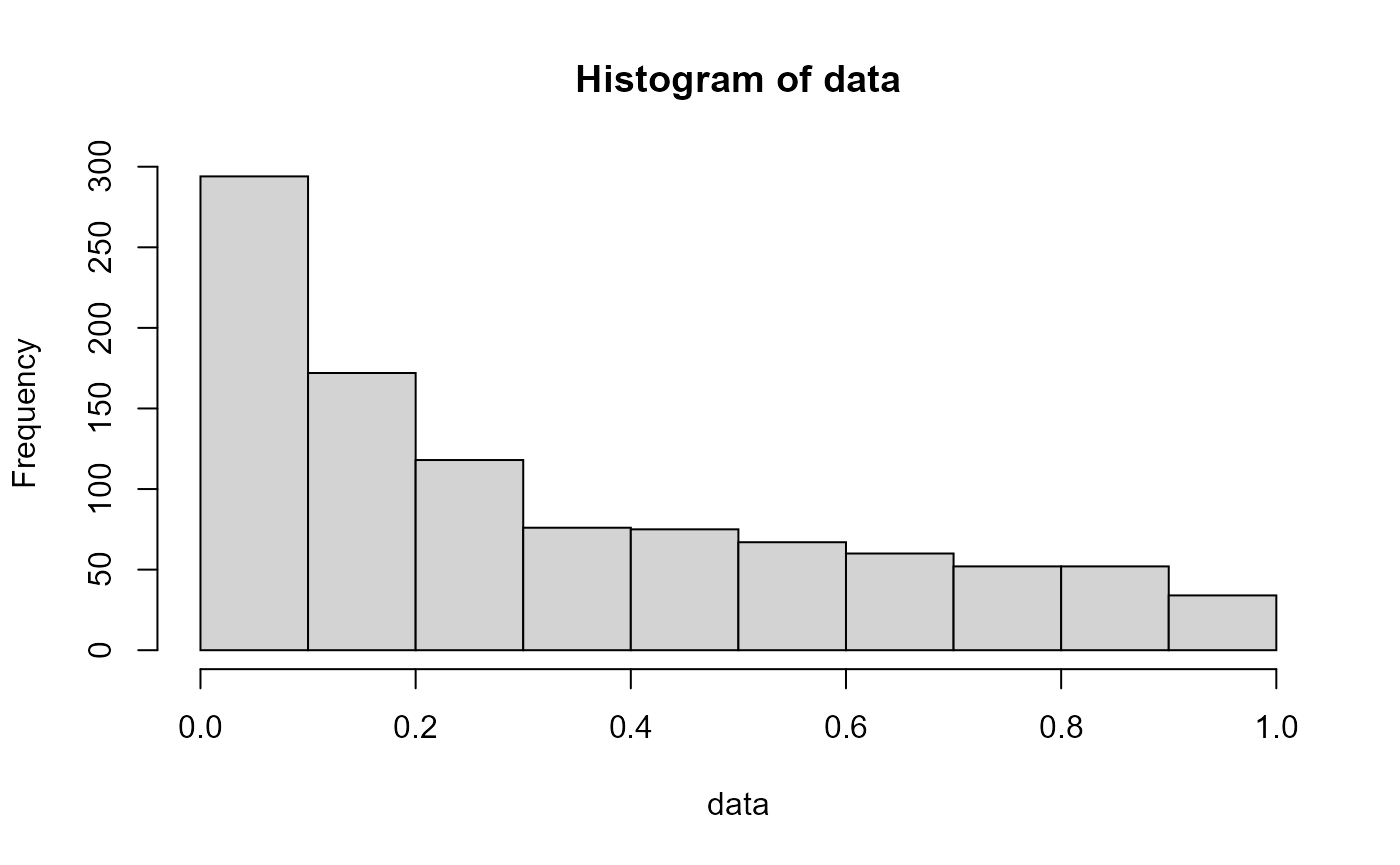
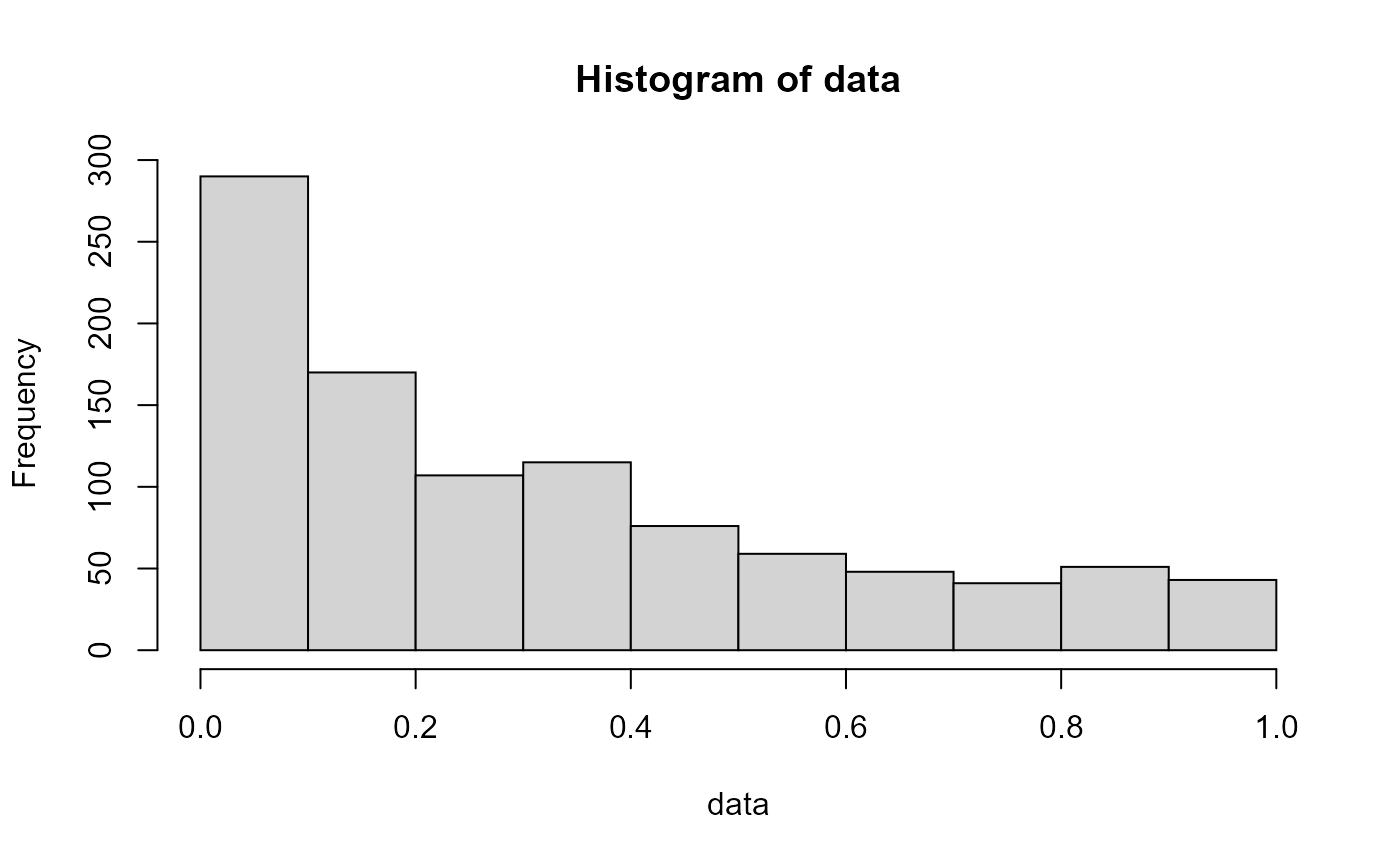
rebuilt site

diff --git a/docs/reference/bradford.html b/docs/reference/bradford.html
@@ -211,7 +211,7 @@ for \(c &gt; 0\) and \(0 \leq x \leq 1\).</p>
 #&gt;  [7] 0.79429637 0.06103814 0.01713073 0.20847441</div><div class='input'>
 <span class='co'># What value satisfies P(X &lt;= x) = 0.5 when c=13?</span>
 <span class='fu'>qbradford</span><span class='op'>(</span>p<span class='op'>=</span><span class='fl'>0.5</span>, c<span class='op'>=</span><span class='fl'>13</span><span class='op'>)</span>
-</div><div class='output co'>#&gt; [1] 0.2108967</div><div class='input'>
+</div><div class='output co'>#&gt; <span class='error'>Error in qbradford(p = 0.5, c = 13): não foi possível encontrar a função "qbradford"</span></div><div class='input'>
 <span class='co'># Probability of P(X &lt;=0.5) when c=10</span>
 <span class='fu'>pbradford</span><span class='op'>(</span>q<span class='op'>=</span><span class='fl'>0.5</span>, c<span class='op'>=</span><span class='fl'>10</span><span class='op'>)</span>
 </div><div class='output co'>#&gt; [1] 0.7472217</div><div class='input'>

diff --git a/docs/articles/rng-bradford-dist.html b/docs/articles/rng-bradford-dist.html
@@ -134,7 +134,7 @@ x = F^{-1}(u;c) = \frac{(1+c)^u - 1}{c}
 <span class="va">data</span> <span class="op">&lt;-</span> <span class="fu"><a href="../reference/bradford.html">rbradford</a></span><span class="op">(</span><span class="fl">1000</span>, c<span class="op">=</span><span class="fl">10</span><span class="op">)</span>
 
 <span class="fu"><a href="https://rdrr.io/r/utils/head.html">head</a></span><span class="op">(</span><span class="va">data</span><span class="op">)</span>
-<span class="co">#&gt; [1] 0.18715162 0.39575850 0.24220726 0.05810718 0.14270406 0.58535950</span></code></pre></div>
+<span class="co">#&gt; [1] 0.04015427 0.02035772 0.33808969 0.05461808 0.23323999 0.79492371</span></code></pre></div>
 <p>We can easily plot this data to understand how it behaves:</p>
 <div class="sourceCode" id="cb3"><pre class="downlit sourceCode r">
 <code class="sourceCode R">
